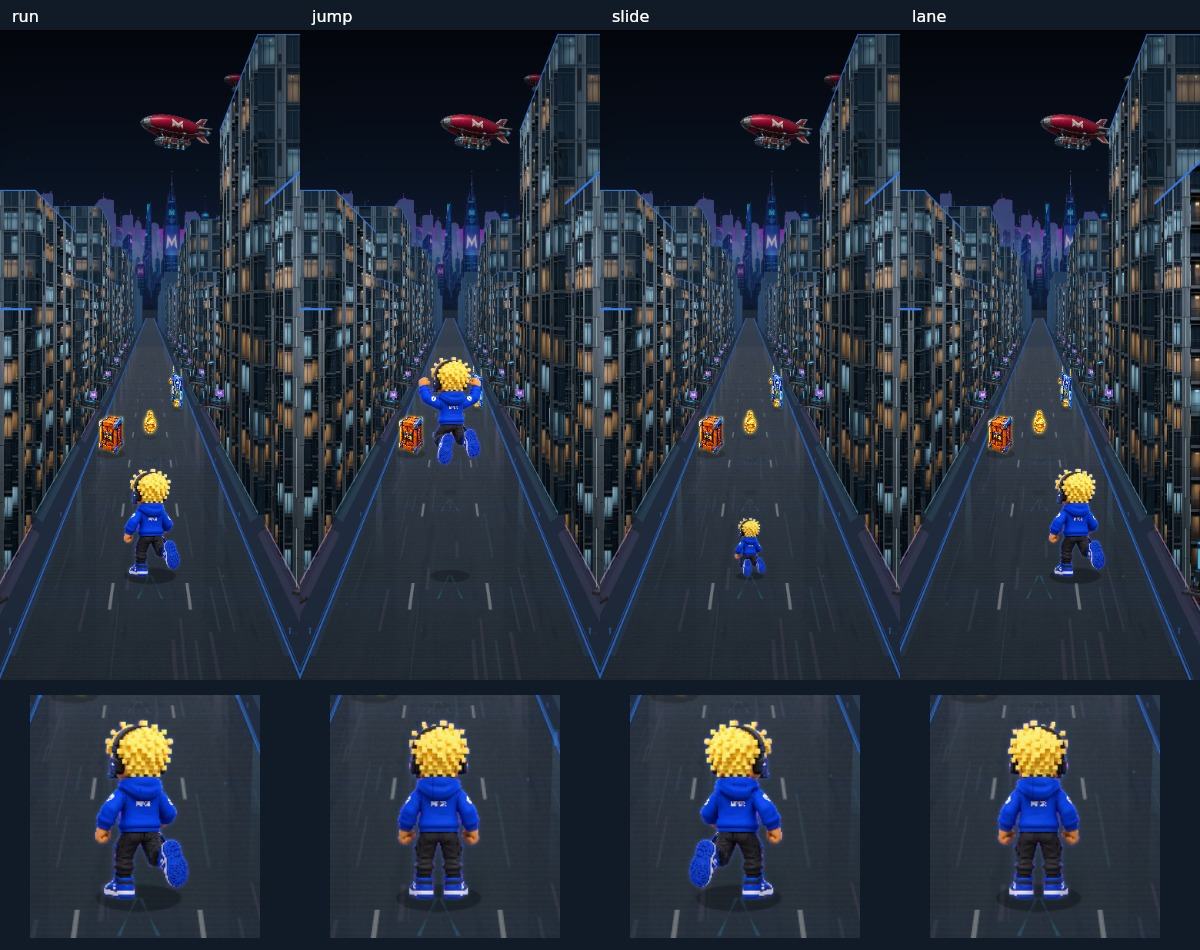
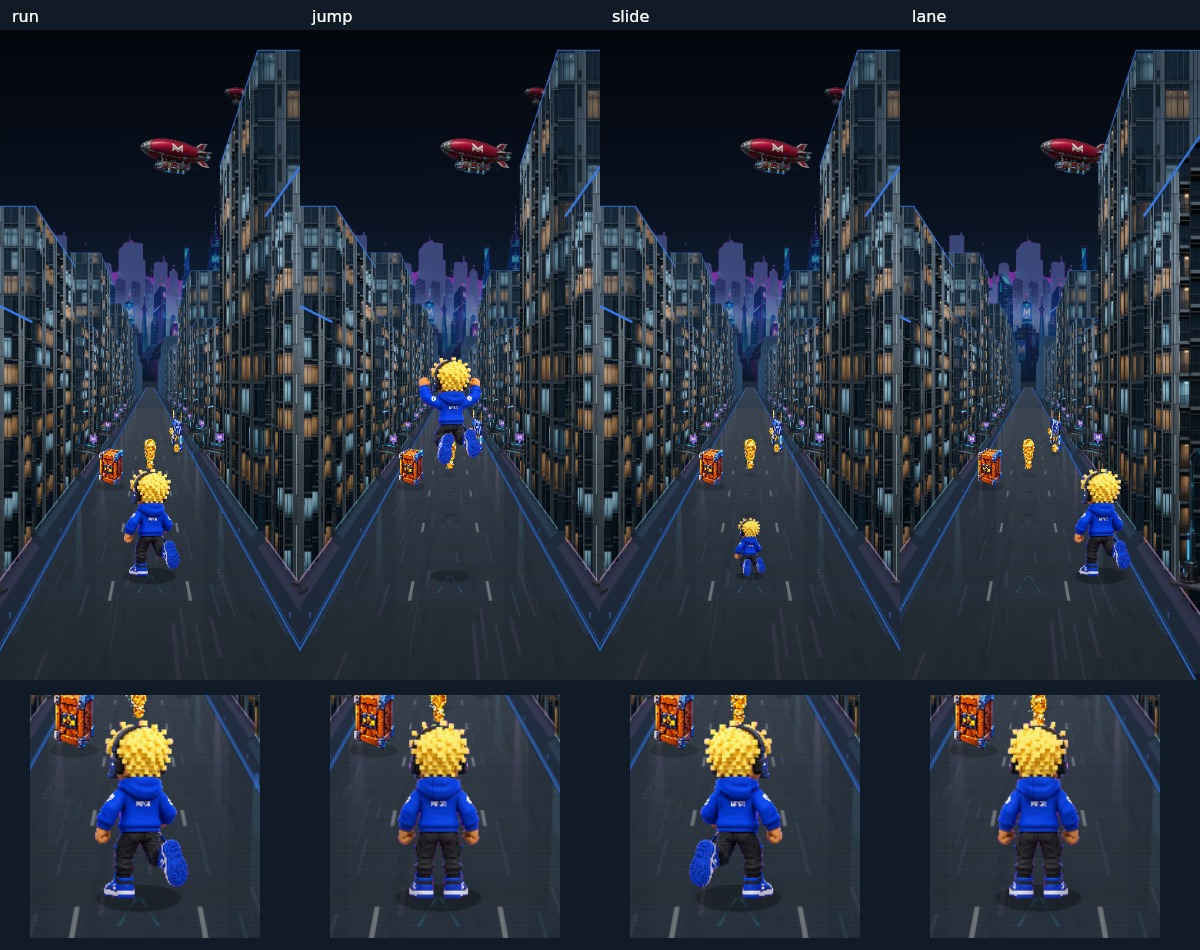
perf(mpgr-run): remove live blur regression and lower rear camera
Continue PR #63 without touching #62 or gameplay. Isolate shadowBlur as the dominant software-raster cost and remove live sprite blur while retaining contact geometry and authored emissive art. Reduce apparent camera eye height, shorten idle-like passing-frame dwell, and extend deterministic visual proofs to all requested states. Add blur/cadence regressions and checked benchmark evidence. Native timing improves from ~52/111ms to ~25/43ms mobile/desktop; real-device acceptance remains open. No simulation, authority, rewards, economy, backend, input or asset changes.

diff --git a/lib/games/mpgr-run/run-render.ts b/lib/games/mpgr-run/run-render.ts
@@ -158,9 +158,16 @@ export const RUN_MAX_VIEW_SCALE = 2.4;
 // column stays put while feet stay grounded — presentation only.
 export const RUN_FRAME_ALIGN_X = [0.0313, 0.0003, -0.0313, -0.0003];
 
-// Run-cycle cadence. 110ms/frame read as a busy "idle dance"; 165ms/frame
-// (~0.66s stride) reads as an actual forward run at game speed.
+// Keep the established 165ms kick poses, but spend only 85ms in each
+// upright passing pose so the cycle reads as forward running, not idle.
 export const RUN_FRAME_MS = 165;
+export const RUN_FRAME_START_MS = [0, 165, 250, 415] as const;
+export const RUN_STRIDE_MS = 500;
+/** Short passing poses avoid dwelling on the upright/idle-looking frames. */
+export function runStrideFrame(elapsedMs: number): number {
+  const phase = ((elapsedMs % RUN_STRIDE_MS) + RUN_STRIDE_MS) % RUN_STRIDE_MS;
+  return phase < 165 ? 0 : phase < 250 ? 1 : phase < 415 ? 2 : 3;
+}
 
 export function runViewScale(viewportWidth: number): number {
   return clamp(
@@ -273,6 +280,10 @@ export function drawRunFrame(
 
   ctx.save();
   ctx.scale(u, u);
+  // Live shadowBlur forces expensive intermediate sprite rasterization.
+  // Ground-contact ellipses and authored emissive pixels supply lighting;
+  // never Gaussian-blur decoded character/obstacle images every frame.
+  ctx.shadowBlur = 0;
   if (world.screenShake > 0.5) {
     ctx.translate((streetHash(Math.floor(world.elapsedMs / 16), 41) - 0.5) * world.screenShake, (streetHash(Math.floor(world.elapsedMs / 16), 42) - 0.5) * world.screenShake);
   }
@@ -781,8 +792,8 @@ export function drawRunFrame(
         const size = pu.radius * 3.0 * s * objectScale;
         drawGroundShadow(sx, gy, size * 0.4, 0.28 * s);
         const puImg = getSprite(POWERUP_SPRITES[pu.type]);
-        ctx.shadowColor = cfg.color;
-        ctx.shadowBlur = 12 * s;
+
+
         if (puImg) {
           ctx.drawImage(puImg, sx - size / 2, cy - size / 2, size, size);
         } else {
@@ -794,7 +805,7 @@ export function drawRunFrame(
           ctx.lineWidth = 1.5 * s;
           ctx.stroke();
         }
-        ctx.shadowBlur = 0;
+
       },
     });
   }
@@ -830,8 +841,8 @@ export function drawRunFrame(
         const size = c.radius * (air > 0 ? 3.4 : 2.9) * shrink * s * objectScale;
         drawGroundShadow(sx, gy, size * (air > 0 ? 0.26 : 0.42), 0.3 * s * (air > 0 ? 0.5 : 1));
         const cImg = getSprite(COLLECTIBLE_SPRITES[c.type]);
-        ctx.shadowColor = color;
-        ctx.shadowBlur = 8 * s;
+
+
         if (cImg) {
           ctx.drawImage(cImg, sx - size / 2, cy - size / 2, size, size);
         } else {
@@ -843,7 +854,7 @@ export function drawRunFrame(
           ctx.lineWidth = 1 * s;
           ctx.stroke();
         }
-        ctx.shadowBlur = 0;
+
         if (attracting) {
           ctx.strokeStyle = "rgba(34,211,238,0.5)";
           ctx.lineWidth = 1;
@@ -881,20 +892,20 @@ export function drawRunFrame(
         }
         ctx.globalAlpha = o.hit ? 0.55 : 1;
         if (oImg) {
-          ctx.shadowColor = palette.fill;
-          ctx.shadowBlur = o.hit ? 0 : 6 * s;
+
+
           ctx.drawImage(oImg, sx - wW / 2, bottom - hW, wW, hW);
-          ctx.shadowBlur = 0;
+
         } else {
           const top = bottom - hW;
           const gradient = ctx.createLinearGradient(0, top, 0, bottom);
           gradient.addColorStop(0, palette.fill);
           gradient.addColorStop(1, palette.dark);
           ctx.fillStyle = gradient;
-          ctx.shadowColor = palette.fill;
-          ctx.shadowBlur = o.hit ? 0 : 6 * s;
+
+
           ctx.fillRect(sx - wW / 2, top, wW, hW);
-          ctx.shadowBlur = 0;
+
         }
         ctx.globalAlpha = 1;
         ctx.restore();
@@ -937,12 +948,12 @@ export function drawRunFrame(
           ctx.lineTo(sx + 7, bottom - 2 + layer * 2);
           ctx.closePath();
           ctx.fillStyle = layer === 0 ? "#FDE68A" : "#FB923C";
-          ctx.shadowColor = "#FB923C";
-          ctx.shadowBlur = 14 - layer * 4;
+
+
           ctx.globalAlpha = 0.85 - layer * 0.2;
           ctx.fill();
         }
-        ctx.shadowBlur = 0;
+
         ctx.globalAlpha = 1;
       }
 
@@ -956,7 +967,7 @@ export function drawRunFrame(
       else if (p.playerY > 0)
         spriteSrc = p.velocityY > 0 ? CHARACTER_REAR_SPRITES.jump : CHARACTER_REAR_SPRITES.fall;
       else {
-        runFrameIdx = Math.floor(world.elapsedMs / RUN_FRAME_MS) % REAR_RUN_CYCLE.length;
+        runFrameIdx = runStrideFrame(world.elapsedMs);
         spriteSrc = REAR_RUN_CYCLE[runFrameIdx];
       }
       let playerImg = getSprite(spriteSrc);
@@ -995,8 +1006,8 @@ export function drawRunFrame(
         ctx.save();
         ctx.translate(sx, bottom - drawH / 2);
         if (jetpackActiveNow) ctx.rotate(0.06);
-        ctx.shadowColor = "rgba(59,130,246,0.55)";
-        ctx.shadowBlur = 3;
+
+
         ctx.drawImage(
           playerImg,
           -drawW / 2 + (runFrameIdx >= 0 ? RUN_FRAME_ALIGN_X[runFrameIdx] * drawW : 0),
@@ -1004,7 +1015,7 @@ export function drawRunFrame(
           drawW,
           drawH
         );
-        ctx.shadowBlur = 0;
+
         ctx.restore();
       } else {
         // Procedural capsule fallback (rear silhouette: hood + head block).
@@ -1013,8 +1024,8 @@ export function drawRunFrame(
         grad.addColorStop(0, COLORS.player);
         grad.addColorStop(1, COLORS.playerCore);
         ctx.fillStyle = grad;
-        ctx.shadowColor = "rgba(59,130,246,0.55)";
-        ctx.shadowBlur = 14;
+
+
         const pw = drawH * 0.42;
         const pr = 7;
         ctx.beginPath();
@@ -1029,7 +1040,7 @@ export function drawRunFrame(
         ctx.quadraticCurveTo(sx - pw / 2, playerTop, sx - pw / 2 + pr, playerTop);
         ctx.closePath();
         ctx.fill();
-        ctx.shadowBlur = 0;
+
         ctx.fillStyle = "#FCD34D"; // hair block, seen from behind
         ctx.fillRect(sx - pw * 0.32, playerTop + drawH * 0.04, pw * 0.64, drawH * 0.2);
       }

diff --git a/lib/games/mpgr-run/run-street.test.ts b/lib/games/mpgr-run/run-street.test.ts
@@ -1,7 +1,7 @@
 import { describe, expect, it, vi } from "vitest";
 import { drawStreetArchitecture, streetScale, streetGround, streetLaneGap, STREET_GROUND, STREET_HORIZON } from "./run-street";
 import { RUN_WORLD_THEMES } from "./run-environments";
-import { drawRunFrame } from "./run-render";
+import { drawRunFrame, runStrideFrame } from "./run-render";
 import { freshWorld } from "./run-world";
 import { collectiblePresentationHeight } from "./run-coin-presentation";
 
@@ -20,6 +20,24 @@ function recordingContext() {
 }
 
 describe("solid streets: projection, determinism and bounded work", () => {
+  it("never enables live sprite shadow blur (measured raster regression)", () => {
+    const {ctx, calls} = recordingContext();
+    const world = freshWorld(); world.elapsedMs = 5010; world.traveledPx = 3000;
+    world.activePowerups.jetpack = 10000;
+    world.collectibles.push({id:1, type:"coin", lane:1, x:300, radius:8, collected:false});
+    world.obstacles.push({id:2, type:"crate", lane:0, x:340, width:34, height:42, groundHeight:0, passed:false, hit:false});
+    world.powerups.push({id:3, type:"shield", lane:2, x:400, radius:13, collected:false});
+    drawRunFrame(ctx, world, 390, 844, () => null);
+    const writes = calls.filter(call => call[0] === "shadowBlur");
+    expect(writes.length).toBeGreaterThan(0);
+    expect(writes.every(call => call[1] === 0)).toBe(true);
+  });
+
+  it("keeps alternate kicks longer than passing poses, with a pause-stable cadence", () => {
+    expect([0,164,165,249,250,414,415,499,500].map(runStrideFrame)).toEqual([0,0,1,1,2,2,3,3,0]);
+    for (let t = 0; t < 500; t++) expect(runStrideFrame(t + 500)).toBe(runStrideFrame(t));
+  });
+
   it("projects vertical edges upright and grounds the player depth exactly", () => {
     expect(streetScale(0)).toBe(1);
     for (const height of [320, 720, 844, 1024]) {

diff --git a/lib/games/mpgr-run/run-render-rear.test.ts b/lib/games/mpgr-run/run-render-rear.test.ts
@@ -1,7 +1,7 @@
 import { RUNNER_HEIGHT_FRACTION, STREET_GROUND } from "./run-street";
 import { describe, expect, it } from "vitest";
 
-import { drawRunFrame, RUN_FRAME_ALIGN_X, RUN_FRAME_MS } from "@/lib/games/mpgr-run/run-render";
+import { drawRunFrame, RUN_FRAME_ALIGN_X, runStrideFrame } from "@/lib/games/mpgr-run/run-render";
 import { freshWorld, type World } from "@/lib/games/mpgr-run/run-world";
 import { CHARACTER_REAR_SPRITES } from "@/lib/games/mpgr-run/run-assets";
 import { MPGR_RUN_SIMULATION_WIDTH } from "@/lib/games/mpgr-run/authoritative-replay";
@@ -156,7 +156,7 @@ describe("rear-camera projection (Subway Surfers style)", () => {
     const player = playerCall(ctx);
     // Centered: lane 1 with zero lane offset puts the runner on the centre
     // line, plus the measured per-frame head-sway art correction only.
-    const idx = Math.floor(5000 / RUN_FRAME_MS) % RUN_FRAME_ALIGN_X.length;
+    const idx = runStrideFrame(5000);
     expect(player.x + player.w / 2).toBeCloseTo(vw / 2 + RUN_FRAME_ALIGN_X[idx] * player.w, 1);
     // Grounded: feet exactly on the near track surface (0.82 * viewport height).
     expect(player.y + player.h).toBeCloseTo(vh * STREET_GROUND, 1);
@@ -314,7 +314,7 @@ describe("rear-camera projection (Subway Surfers style)", () => {
       [pPhone, 390, 700],
       [pDesk, 1280, 720],
     ] as const) {
-      const idx2 = Math.floor(5000 / RUN_FRAME_MS) % RUN_FRAME_ALIGN_X.length;
+      const idx2 = runStrideFrame(5000);
       expect(call.x + call.w / 2).toBeCloseTo(vw / 2 + RUN_FRAME_ALIGN_X[idx2] * call.w, 1);
       expect(call.y + call.h).toBeCloseTo(vh * STREET_GROUND, 1);
     }

diff --git a/lib/games/mpgr-run/run-environments.test.ts b/lib/games/mpgr-run/run-environments.test.ts
@@ -1,6 +1,6 @@
 import { describe, expect, it } from "vitest";
 
-import { drawRunFrame, runViewScale, RUN_FRAME_ALIGN_X, RUN_FRAME_MS } from "@/lib/games/mpgr-run/run-render";
+import { drawRunFrame, runViewScale, RUN_FRAME_ALIGN_X, RUN_FRAME_START_MS, RUN_STRIDE_MS } from "@/lib/games/mpgr-run/run-render";
 import { freshWorld, type World } from "@/lib/games/mpgr-run/run-world";
 import { ENVIRONMENT_SETS } from "@/lib/games/mpgr-run/run-assets";
 import {
@@ -204,7 +204,7 @@ describe("world rendering surrounds the track (no black void)", () => {
       }
       // Full-width ground fill covers the lower screen (no void rows).
       const ground = ctx.rects.filter(
-        (r) => r.x <= 0 && r.x + r.w >= vw && r.y < vh * 0.5 && r.y + r.h >= vh,
+        (r) => r.x <= 0 && r.x + r.w >= vw && r.y <= vh * STREET_HORIZON && r.y + r.h >= vh,
       );
       expect(ground.length).toBeGreaterThan(0);
       // Near scenery instances are big, far ones small (perspective).
@@ -324,7 +324,7 @@ describe("world integration details (visual-polish pass)", () => {
     const boxes: Array<{ x: number; y: number; w: number; h: number }> = [];
     for (let f = 0; f < 4; f++) {
       const world = worldAt(120);
-      world.elapsedMs = RUN_FRAME_MS * 4 + f * RUN_FRAME_MS + 10; // cycle index == f
+      world.elapsedMs = RUN_STRIDE_MS * 4 + RUN_FRAME_START_MS[f] + 10; // cycle index == f
       const ctx = new EnvRecordingCtx();
       drawRunFrame(ctx as unknown as CanvasRenderingContext2D, world, vw2, vh2, makeGetSprite());
       const p = ctx.calls.find((c) => c.tag.includes("/character/mpgr-runner-rear-run-"));

diff --git a/lib/games/mpgr-run/run-street.ts b/lib/games/mpgr-run/run-street.ts
@@ -2,7 +2,7 @@ import type { RunWorldTheme } from "./run-environments";
 
 /** Presentation-only street geometry. No random source, clock or simulation writes. */
 export const STREET_FOCAL = 300;
-export const STREET_HORIZON = 0.43;
+export const STREET_HORIZON = 0.54;
 export const STREET_GROUND = 0.84;
 export const RUNNER_HEIGHT_FRACTION = 0.165;
 export const STREET_SPACING = 230;

diff --git a/docs/mpgr-run-next-gen/README.md b/docs/mpgr-run-next-gen/README.md
@@ -1,6 +1,6 @@
 # MPGR Run — next-generation presentation work (DRAFT)
 
-**2026-09-27. Not merge-ready.** This is a reviewable implementation checkpoint, not a claim that the final reference-quality/mobile-performance target has been met. The software-raster regression below must be resolved or convincingly ruled out through representative browser/device profiling before release. The attached reference guided composition/materials; it was not copied into the game.
+**2026-09-27. Not merge-ready.** This is a reviewable implementation checkpoint, not a claim that the final reference-quality/mobile-performance target has been met. The dominant software-raster regression has now been removed by the targeted continuation below; representative browser/device profiling and final art-direction acceptance are still required before release. The attached reference guided composition/materials; it was not copied into the game.
 
 ## Git baseline and scope
 
@@ -21,7 +21,7 @@ Two input gaps remained: a 7–39 px horizontal movement fell through to jump, a
 
 ## Implemented here
 
-- Runner height is 16.5% of game-canvas height, with shared object/jump scaling. Horizon at 43%, player ground at 84%; lane width is portrait-width/landscape-height bounded. Existing classic `runViewScale`/`runCameraOffsetX` contracts remain intact.
+- Runner height is 16.5% of game-canvas height, with shared object/jump scaling. Horizon at 54%, player ground at 84%; lane width is portrait-width/landscape-height bounded. Existing classic `runViewScale`/`runCameraOffsetX` contracts remain intact.
 - Building sides and near faces are projected solid prisms with grounded bases, separate wall depths, floor/window detail, key/fill shading, ground contact, depth fog, and roof visibility based on camera height. Buildings are not rotated PNG cutouts.
 - Three facade textures are mapped onto those walls with bounded strips and cached mip levels. A second outer district is landscape-only. Original branded street furniture and airships remain.
 - World-specific sky/surface palettes, world-locked asphalt grain, subdued lane markings, streaks, curb-light reflections, and existing bounded weather. Screen shake and jetpack flame flicker no longer call `Math.random()` in the renderer.
@@ -50,7 +50,7 @@ An automatic cleanup of the old skyline was rejected after inspection because it
 - [Worlds: mobile and desktop](worlds.jpg)
 - [Run, jump, slide, lane change and four stride frames](actions.jpg)
 
-Proofs invoke the **actual `drawRunFrame`** with decoded production assets under a native Canvas implementation. They are not generated concept art or recording-context-only tests. Full outputs include 30 PNG frames (three worlds × two viewports × run/jump/fall/slide/lane), plus the sheets and asset audit. Fixtures deliberately place real entity types at selected depths for review; they are **not evidence of authoritative spawn density**. Client/replay parity is verified separately.
+Proofs invoke the **actual `drawRunFrame`** with decoded production assets under a native Canvas implementation. They are not generated concept art or recording-context-only tests. Full outputs include 66 PNG frames (three worlds × two viewports × eleven deterministic states, including landing, all lanes, airborne collectible and obstacle approach), plus the sheets and asset audit. Fixtures deliberately place real entity types at selected depths for review; they are **not evidence of authoritative spawn density**. Client/replay parity is verified separately.
 
 Reproduce without adding production dependencies or an authentication-bypass route:
 
@@ -67,29 +67,45 @@ These are renderer proofs, not browser screenshots or authenticated end-to-end g
 | Gate | Result |
 | --- | --- |
 | `npx tsc --noEmit` | Pass, including final geometry change |
-| MPGR Run relevant suite | **21 files / 178 tests passed** |
+| MPGR Run relevant suite | **21 files / 180 tests passed** |
 | Client → authoritative replay | **16 seeded runs passed**, with and without recorded controls; exact result equality |
 | Input regressions | 10 classifier tests pass (short swipes, ownership, cancel, unmatched release, direction/tap semantics) |
 | Render contracts | Grounding, revised responsive framing, depth order, world coverage, finite coordinates, stable head registration, texture bounds, bounded work, deterministic render/no simulation mutation |
 | Asset references | All preload files exist/decode; material dimensions/size budgets checked; legacy files retained |
-| Full `npm test` | **195 files / 2,068 assertions passed**, but command exits 1 due to an unhandled TLS `ECONNRESET` to `cca-lite.coinbase.com` from untouched AgentKit tests. Earlier run had four such network errors. Not reported as a clean suite exit. |
+| Full `npm test` | **195 files / 2,070 assertions passed**, but command exits 1 due to three unhandled TLS `ECONNRESET` errors to `cca-lite.coinbase.com` from untouched AgentKit tests. Earlier runs also had network errors. Not reported as a clean suite exit. |
 | `npm run lint` | 0 errors, 59 repository-wide warnings; no warnings in the new renderer/helper/script files |
 | `npm run build` | Blocked by `next/font` failing to download Inter from `fonts.googleapis.com`; no unrelated font/config workarounds introduced |
 | Browser/mobile hardware QA | **Not completed** |
-| Performance gate | **Not passed**; see below |
+| Performance gate | Software regression substantially reduced; hardware gate remains open |
 
-### Performance — release blocker
+### Targeted performance/camera continuation
 
-The implementation bounds scenery, textures, particles and facade detail and caches mipmaps. It does not add a 3D engine. Nevertheless, the warm software-raster comparison regressed:
+No gameplay, inputs, simulation, rewards, authoritative replay, APIs or assets were changed in this continuation. It builds on `cdfc407` in the same PR #63; PR #62 remains untouched. A restored-workspace Git mismatch was resolved by first verifying all files exactly matched remote `cdfc407`, keeping a safety stash, then fast-forwarding the session branch. No work was duplicated or discarded.
 
-| Canvas | PR #62 renderer (median) | Current renderer (median) |
+Measured ablations on the same host, 25 frames each, native Canvas with a forced raster flush (milliseconds, medians):
+
+| Renderer / isolated ablation | 390×844 | 1280×720 |
 | --- | ---: | ---: |
-| 390×844 | ~20 ms | ~54 ms |
-| 1280×720 | ~48 ms | ~126 ms |
+| PR #62 (`5489ea0`) | 21.1 | 48.7 |
+| Initial PR #63 (`cdfc407`) | 52.4 | 111.0 |
+| #63 without street architecture | 36.9 | 84.1 |
+| #63 using flat facade fill | 57.4 | 120.1 |
+| #63 without geometry fog | 48.6 | 103.8 |
+| #63 without live shadow blur | **28.1** | **44.6** |
+| #63 without road texture | 46.1 | 103.8 |
+| Current, final proof benchmark | **25.0** | **42.9** |
 
-Same host/native Canvas, 25 frames, forced raster flush. The parent comparison used its renderer/assets/themes from `5489ea0`. These timings are **not phone/browser FPS measurements**, but are a substantive warning, not a green performance gate. `software-canvas-timing.json` records the final current-renderer sample. Mipmapping and reduced strip detail helped an earlier ~85 ms mobile result, but did not remove the regression.
+**Root cause:** live `shadowBlur` on character/entity draws was the dominant cost, not texture strips alone. Removing architecture or the road texture did not eliminate the regression. Blurring the now-larger presentation incurred expensive raster/compositing work. The fix removes live shadow blur while retaining authored emissive sprite pixels, contact-shadow geometry, facade textures/mips, projected architecture and reflections. A regression test prohibits re-enabling live blur. Timing variation is expected; repeat current runs measured ~25–28 ms mobile and ~43–45 ms desktop. This is substantially closer to #62, not a claim of phone/browser FPS.
 
-Before merging: profile on representative low/mid-range phones and desktop browsers, reduce geometry/compositing cost with evidence, recheck at DPR 2, verify actual DOM HUD + keyboard/pointer integration, and rerun visual review. If the richer renderer cannot meet the budget, simplify/cachify its material/geometry pass before release rather than sacrificing input responsiveness.
+Camera eye-height ratio, in standing-runner heights, decreased from `(0.84-0.43)/0.165 ≈ 2.48` to `(0.84-0.54)/0.165 ≈ 1.82`. The focal distance, runner height (16.5%), lane widths, entity coordinates and physics did not change. This reduces the overhead appearance without scaling the whole canvas.
+
+The four existing run frames now have durations **165 / 85 / 165 / 85 ms** in a 500 ms cycle. The upright passing frames no longer linger as long as the kick frames. Registration, grounding, pause behavior, jump/fall and slide selection remain intact. No character art was regenerated.
+
+Updated proofs: [worlds](worlds.jpg), [actions/stride](actions.jpg), [nine required gameplay states](states.jpg). They were inspected after the change. The scenarios are static renderer fixtures, not end-to-end authenticated game sessions or proof of new coin spawning rules.
+
+`software-canvas-timing.json` records the final sample. Current benchmarks are reproducible through the existing proof script. Browser verification was attempted again: Playwright installed, but Chromium download failed with a TLS/network error to `cdn.playwright.dev`. Full-suite assertions passed, but the command exits 1 on Coinbase TLS failures; production build exits 1 on the Google Fonts fetch. None is represented as a green command.
+
+Remaining gate: real-device/DPR-2 smoothness and visual acceptance. Keep this PR draft and unmerged. Software timing alone cannot establish production readiness.
 
 ## Remaining visual limitations
 
